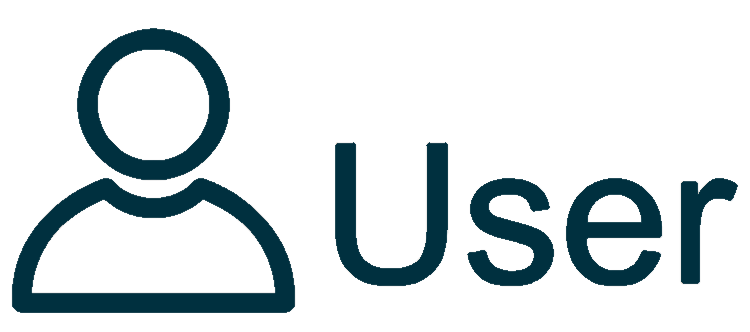
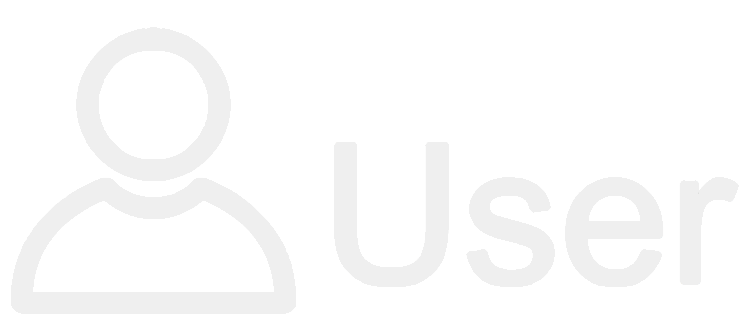
made changes to mainpage colors

Changed region(s): [[0.4293, 0.4217, 0.9813, 0.8735], [0.0, 0.0602, 0.3987, 0.9639]]

diff --git a/webpage/mainpagestyle.css b/webpage/mainpagestyle.css
@@ -4,11 +4,11 @@ body {
 }
 
 a:link {
-  color: #00303f;
+  color: #efefef;
 }
 
 a:visited{
-  color: #00303f;
+  color: #efefef;
 }
 
 input[type=image]:hover{
@@ -97,7 +97,7 @@ input[type=image]:active {
 #categories {
   position: relative;
   display: inline-flex;
-  background-color: #eefeff;
+  background-color: #232323;
   height: calc(40vh - 46px);
   width: 80vw;
   float: right;
@@ -145,7 +145,7 @@ input[type=image]:active {
   font-size: 16pt;
   font-weight: 500;
   text-align: center;
-  color: #000000;
+  color: #efefef;
 }
 
 #leftbar {
@@ -167,7 +167,7 @@ input[type=image]:active {
 }
 
 #topbar {
-  background-color: #eefeff;
+  background-color: #232323;
   height: 45px;
   border-bottom: 1px solid black;
 }
